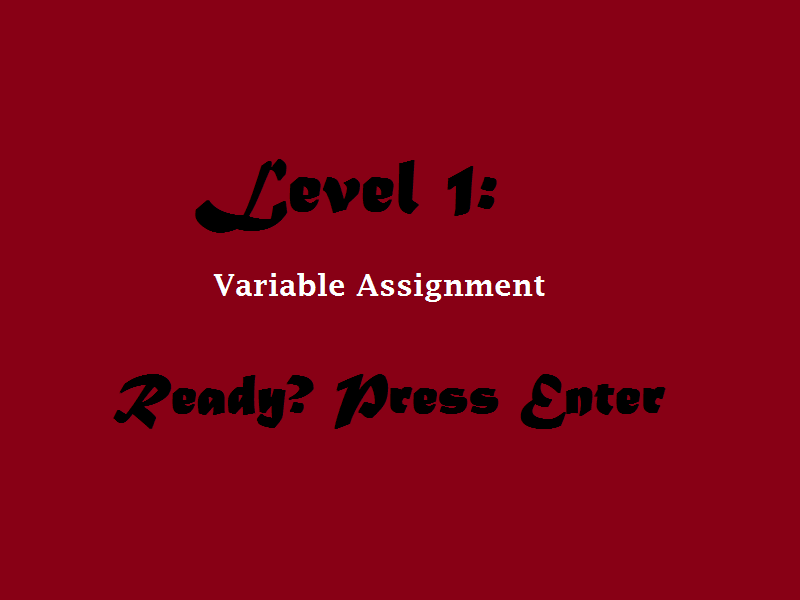
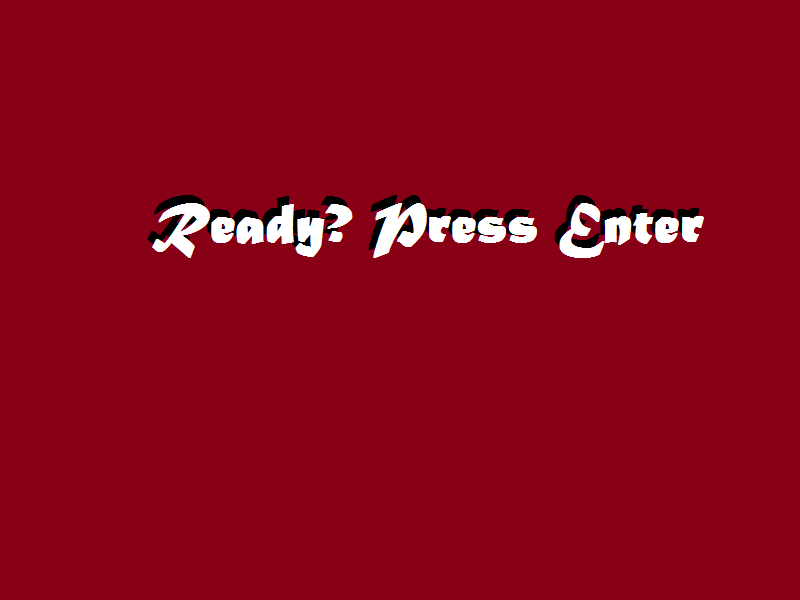
quick and dirty descriptions and tutorials for all levels

Changed region(s): [[0.1875, 0.27, 0.875, 0.51], [0.125, 0.6, 0.625, 0.72], [0.6562, 0.63, 0.8438, 0.72]]

diff --git a/src/main.py b/src/main.py
@@ -309,7 +309,12 @@ class LevelMenu(PlainMenu):
     ["level400", "level401", "level402", "level403", "level404"],
     ["level500", "level501", "level502", "level503", "level504"]   ]
   tutList = [
-    ["../assets/intro_screen2.png", "../assets/masterLevel1tutorial.png", "../assets/masterLevel1tutorial1.png", "../assets/masterLevel1tutorial2.png"]
+    ["../assets/level1description.png","../assets/intro_screen2.png", "../assets/masterLevel1tutorial.png", "../assets/masterLevel1tutorial1.png", "../assets/masterLevel1tutorial2.png"],
+    ["../assets/level2description.png", "../assets/intro_screen2.png", "../assets/masterLevel1tutorial2.png"],
+    ["../assets/level3description.png", "../assets/intro_screen2.png", "../assets/masterLevel1tutorial3.png", "../assets/masterLevel1tutorial3b.png" ],
+    ["../assets/level4description.png" , "../assets/masterLevel1tutorial4.png", "../assets/masterLevel1tutorial4b.png"  ],
+    ["../assets/level5description.png", "../assets/masterLevel1tutorial5.png", "../assets/masterLevel1tutorial5b.png"]
+
   ]
 
   def __init__(self, ui):
@@ -324,13 +329,13 @@ class LevelMenu(PlainMenu):
         if e.key == pygame.K_1:
           self.userSelectLevel(self.levelList[0][0], self.tutList[0])
         elif e.key == pygame.K_2:
-          self.userSelectLevel(self.levelList[1][0])
+          self.userSelectLevel(self.levelList[1][0], self.tutList[1])
         elif e.key == pygame.K_3:
-          self.userSelectLevel(self.levelList[2][0])
+          self.userSelectLevel(self.levelList[2][0], self.tutList[2])
         elif e.key == pygame.K_4:
-          self.userSelectLevel(self.levelList[3][0])
+          self.userSelectLevel(self.levelList[3][0], self.tutList[3])
         elif e.key == pygame.K_5:
-          self.userSelectLevel(self.levelList[4][0])
+          self.userSelectLevel(self.levelList[4][0], self.tutList[4])
 
     return super(LevelMenu, self).handleEvents(events);
 
